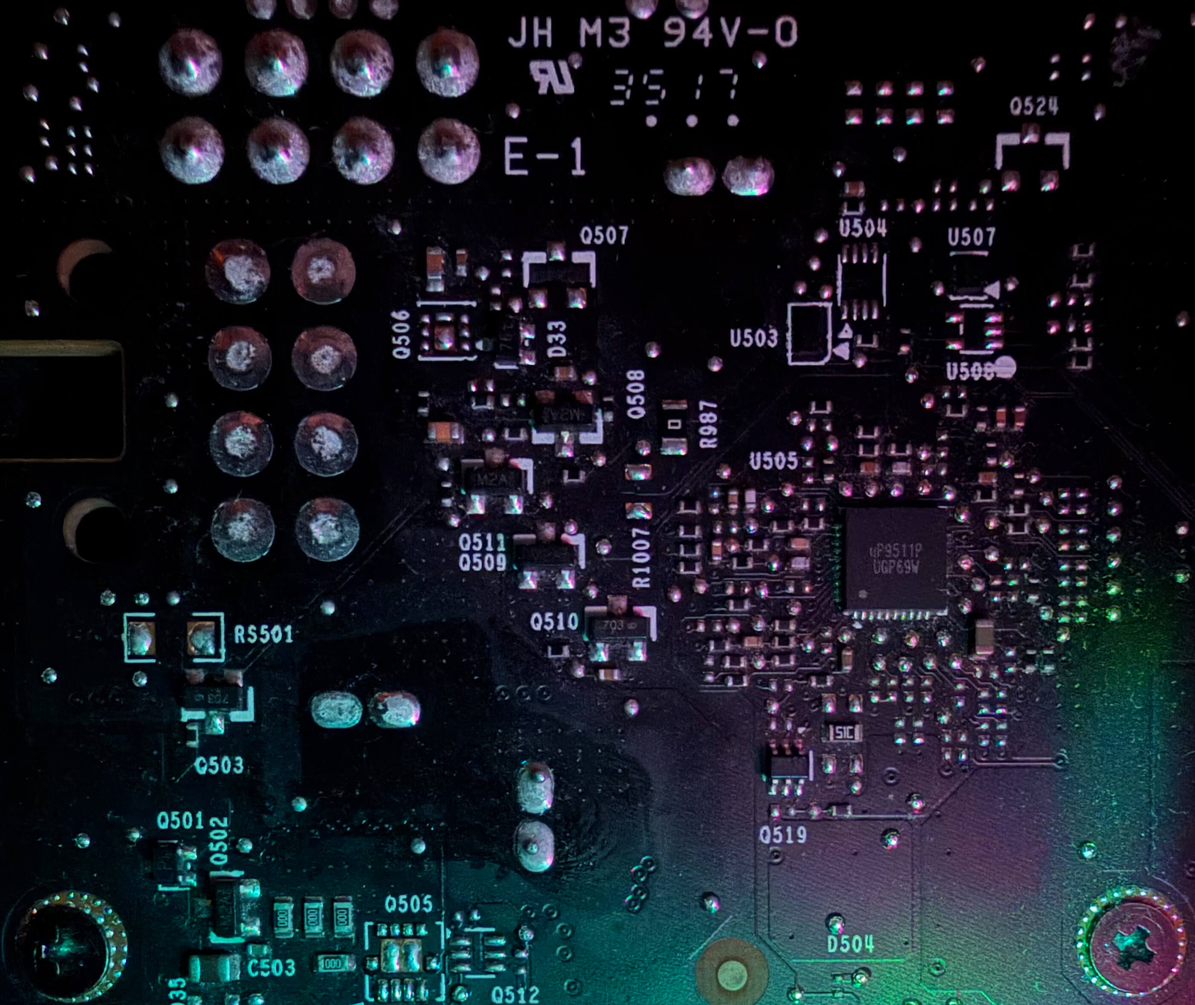
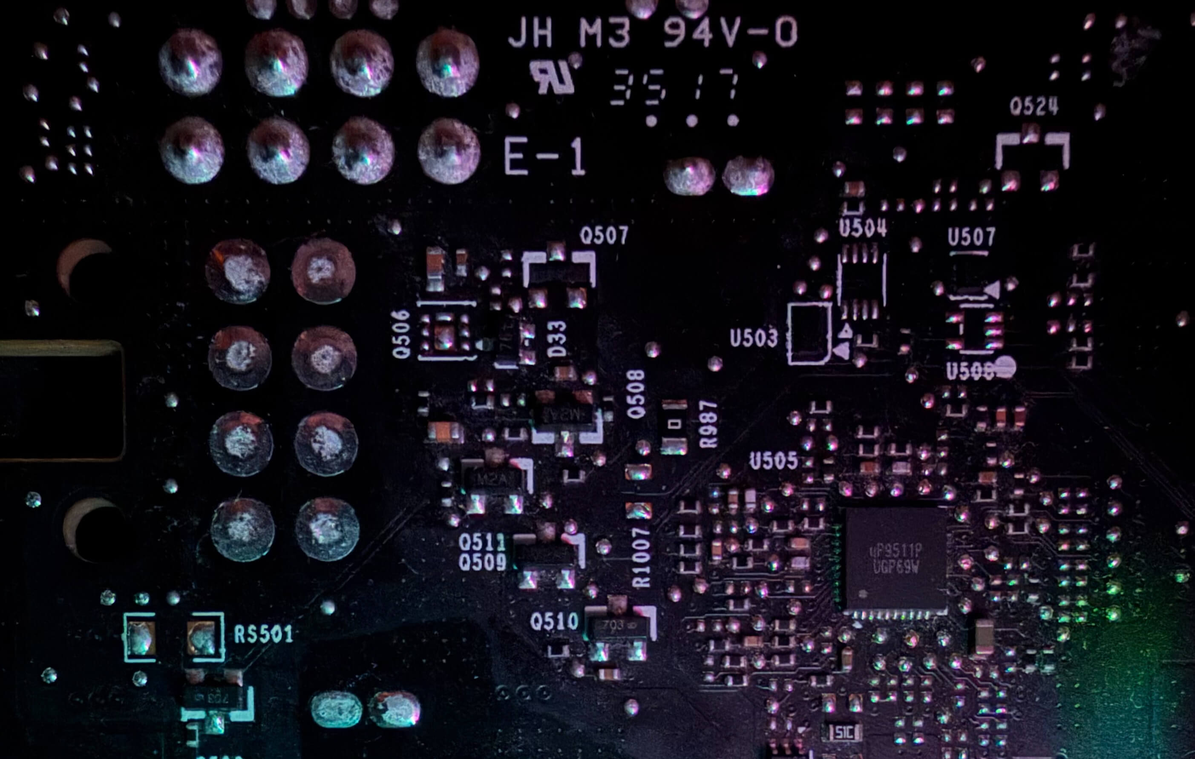
Improved touch controller

diff --git a/index.html b/index.html
@@ -32,11 +32,12 @@
       body {
         display: flex;
         flex-direction: column;
-        justify-content: start;
+        justify-content: center;
         align-items: center;
         background-color: black;
-
         touch-action: none;
+
+        margin: auto;
       }
 
       canvas {
@@ -65,13 +66,29 @@
       .controller-portrait {
         display: none;
       }
+      .controller-portrait-gap {
+        display: none;
+      }
 
-      /* Portrait phone (most likely) query */
-      @media (pointer: coarse) and (max-aspect-ratio: 2/3) {
+      @media (max-aspect-ratio: 2/2.9) {
         body {
           background-color: #dddbdb;
+          justify-content: start;
         }
         .controller-portrait {
+          display: block;
+        }
+      }
+
+      .controller-portrait-extra-borders {
+        display: none;
+      }
+
+      @media (max-aspect-ratio: 2/3.225) {
+        .controller-portrait-extra-borders {
+          display: block;
+        }
+        .controller-portrait-gap {
           display: block;
         }
       }
@@ -88,7 +105,7 @@
       "
       src="/controller-portrait-border.png"
       alt="controller"
-      class="controller-portrait"
+      class="controller-portrait controller-portrait-extra-borders"
     />
     <canvas id="canvas"></canvas>
     <img
@@ -100,7 +117,7 @@
       "
       src="/controller-portrait-border.png"
       alt="controller"
-      class="controller-portrait"
+      class="controller-portrait controller-portrait-extra-borders"
     />
     <div
       style="
@@ -110,11 +127,11 @@
         position: relative;
         box-shadow: inset 0 0 20px rgba(0, 0, 0, 0.75);
       "
-      class="controller-portrait"
+      class="controller-portrait-gap"
     >
       <div
         style="
-          background-color: black;
+          /* background-color: black; */
           inset: 0;
           position: absolute;
           z-index: -1;
@@ -122,6 +139,8 @@
       ></div>
       <div
         style="
+          height: 100%;
+          width: 100%;
           position: absolute;
           inset: 0;
           overflow: hidden;
@@ -133,11 +152,13 @@
       >
         <img
           style="
+            min-height: calc(100% + 50px);
             display: block;
-            width: 100dvw;
-            max-width: 100%;
+            /* width: 100dvw; */
+            min-height: 100%;
             position: absolute;
-            bottom: -50px;
+            bottom: 0;
+            object-fit: cover;
           "
           src="/pcb.jpg"
           alt="pcb"
@@ -149,8 +170,7 @@
           position: absolute;
           bottom: 0;
           display: block;
-          width: 100dvw;
-          max-width: 100%;
+          min-height: 100%;
           pointer-events: none;
           user-select: none;
           filter: drop-shadow(0 0 10px rgba(0, 0, 0, 0.75));
